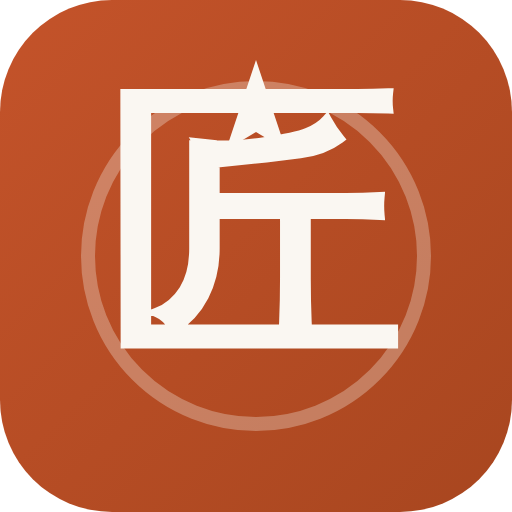
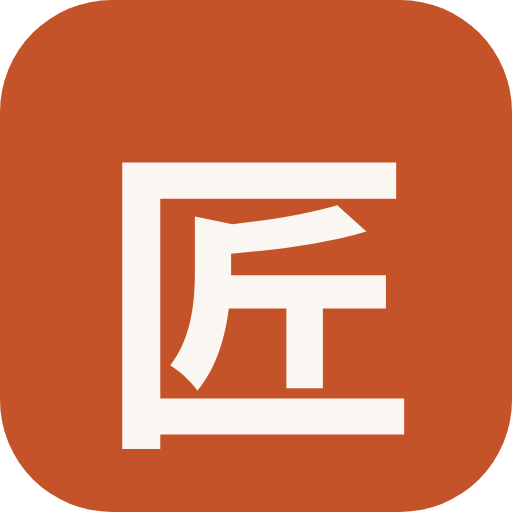
refine: schoon 匠-tegelicoon (geen ring/naald); icoon bij noorden 'Voor agents', uit footer

Changed region(s): [[0.1562, 0.125, 0.8438, 0.875], [0.7188, 0.7188, 1.0, 1.0]]

diff --git a/landing.html b/landing.html
@@ -721,7 +721,7 @@ footer { padding: 40px 64px; display: flex; align-items: center; justify-content
     <h2 class="noorden-kop" data-i18n="noorden-kop">Niet sneller.<br>Maar weten <em>waarheen</em>.</h2>
     <p class="noorden-p" data-i18n="noorden-p">Hoe meer agents er aan je deur kloppen, hoe makkelijker je meegaat — in hun tempo, hun richting. Takumi is de rots in die branding. Niet door zich schrap te zetten, maar door de zee te kennen: jouw seizoen, jouw noorden. Geen instrument dat voor je stuurt, maar iets dat zegt: niet dit, niet nu — ook als alle agents het tegendeel adviseren.</p>
     <a class="noorden-cta" href="/manifest" data-i18n="noorden-cta">Lees het manifest →</a>
-    <a class="noorden-cta noorden-cta-sec" href="/agents" data-i18n="noorden-cta2">Voor agents →</a>
+    <a class="noorden-cta noorden-cta-sec" href="/agents" data-i18n="noorden-cta2"><img src="/takumi-mcp.svg" alt="" width="15" height="15" style="vertical-align:-3px;margin-right:7px">Voor agents →</a>
   </div>
 </section>
 
@@ -742,7 +742,7 @@ footer { padding: 40px 64px; display: flex; align-items: center; justify-content
     <a href="#noorden">Het Noorden</a>
     <a href="https://wesharetalent.com" target="_blank">WeShareTalent</a>
     <a href="https://www.linkedin.com/in/paultakken/" target="_blank">LinkedIn</a>
-    <a href="/agents" class="ft-agents"><img src="/takumi-mcp.svg" alt="" width="14" height="14" style="vertical-align:-2px;margin-right:6px">Voor agents ↗</a>
+    <a href="/agents">Voor agents ↗</a>
   </div>
   <p class="ft-copy">© 2026 Paul Takken · Natuurlijk Agile</p>
 </footer>
@@ -826,7 +826,7 @@ var NL = {
   'noorden-kop':   'Niet sneller.<br>Maar weten <em>waarheen</em>.',
   'noorden-p':     'Hoe meer agents er aan je deur kloppen, hoe makkelijker je meegaat — in hun tempo, hun richting. Takumi is de rots in die branding. Niet door zich schrap te zetten, maar door de zee te kennen: jouw seizoen, jouw noorden. Geen instrument dat voor je stuurt, maar iets dat zegt: niet dit, niet nu — ook als alle agents het tegendeel adviseren.',
   'noorden-cta':   'Lees het manifest →',
-  'noorden-cta2':  'Voor agents →',
+  'noorden-cta2':  '<img src="/takumi-mcp.svg" alt="" width="15" height="15" style="vertical-align:-3px;margin-right:7px">Voor agents →',
   'v01-n':'Valkuil 01','v01-h':'De efficiëntieval','v01-p':'Agile als bezuinigingstool. Velocity als heilige metric. De waarde die er echt toe doet, wordt niet gemeten.',
   'v02-n':'Valkuil 02','v02-h':'Onvoldoende wortels','v02-p':'Agile ingevoerd zonder filosofisch fundament. Een boom zonder wortels staat, totdat de eerste storm komt.',
   'v03-n':'Valkuil 03','v03-h':'Agile hyperventilatie','v03-p':'Sprint na sprint, zonder ademruimte. Het ritme dat wendbaarheid kracht geeft, is verdwenen.',
@@ -889,7 +889,7 @@ var EN = {
   'noorden-kop':   'Not faster.<br>But knowing <em>where</em>.',
   'noorden-p':     'The more agents knock at your door, the easier it is to be carried along — their pace, their direction. Takumi is the rock in that surf. Not by bracing against it, but by knowing the sea: your season, your north. Not an instrument that steers for you, but something that says: not this, not now — even when every agent advises the opposite.',
   'noorden-cta':   'Read the manifesto →',
-  'noorden-cta2':  'For agents →',
+  'noorden-cta2':  '<img src="/takumi-mcp.svg" alt="" width="15" height="15" style="vertical-align:-3px;margin-right:7px">For agents →',
   'v01-n':'Pitfall 01','v01-h':'The efficiency trap','v01-p':'Agile as a cost-cutting tool. Velocity as the sacred metric. The value that truly matters goes unmeasured.',
   'v02-n':'Pitfall 02','v02-h':'Insufficient roots','v02-p':'Agile introduced without philosophical foundation. A tree without roots stands — until the first storm.',
   'v03-n':'Pitfall 03','v03-h':'Agile hyperventilation','v03-p':'Sprint after sprint, without breathing space. The rhythm that gives agility its power has disappeared.',
